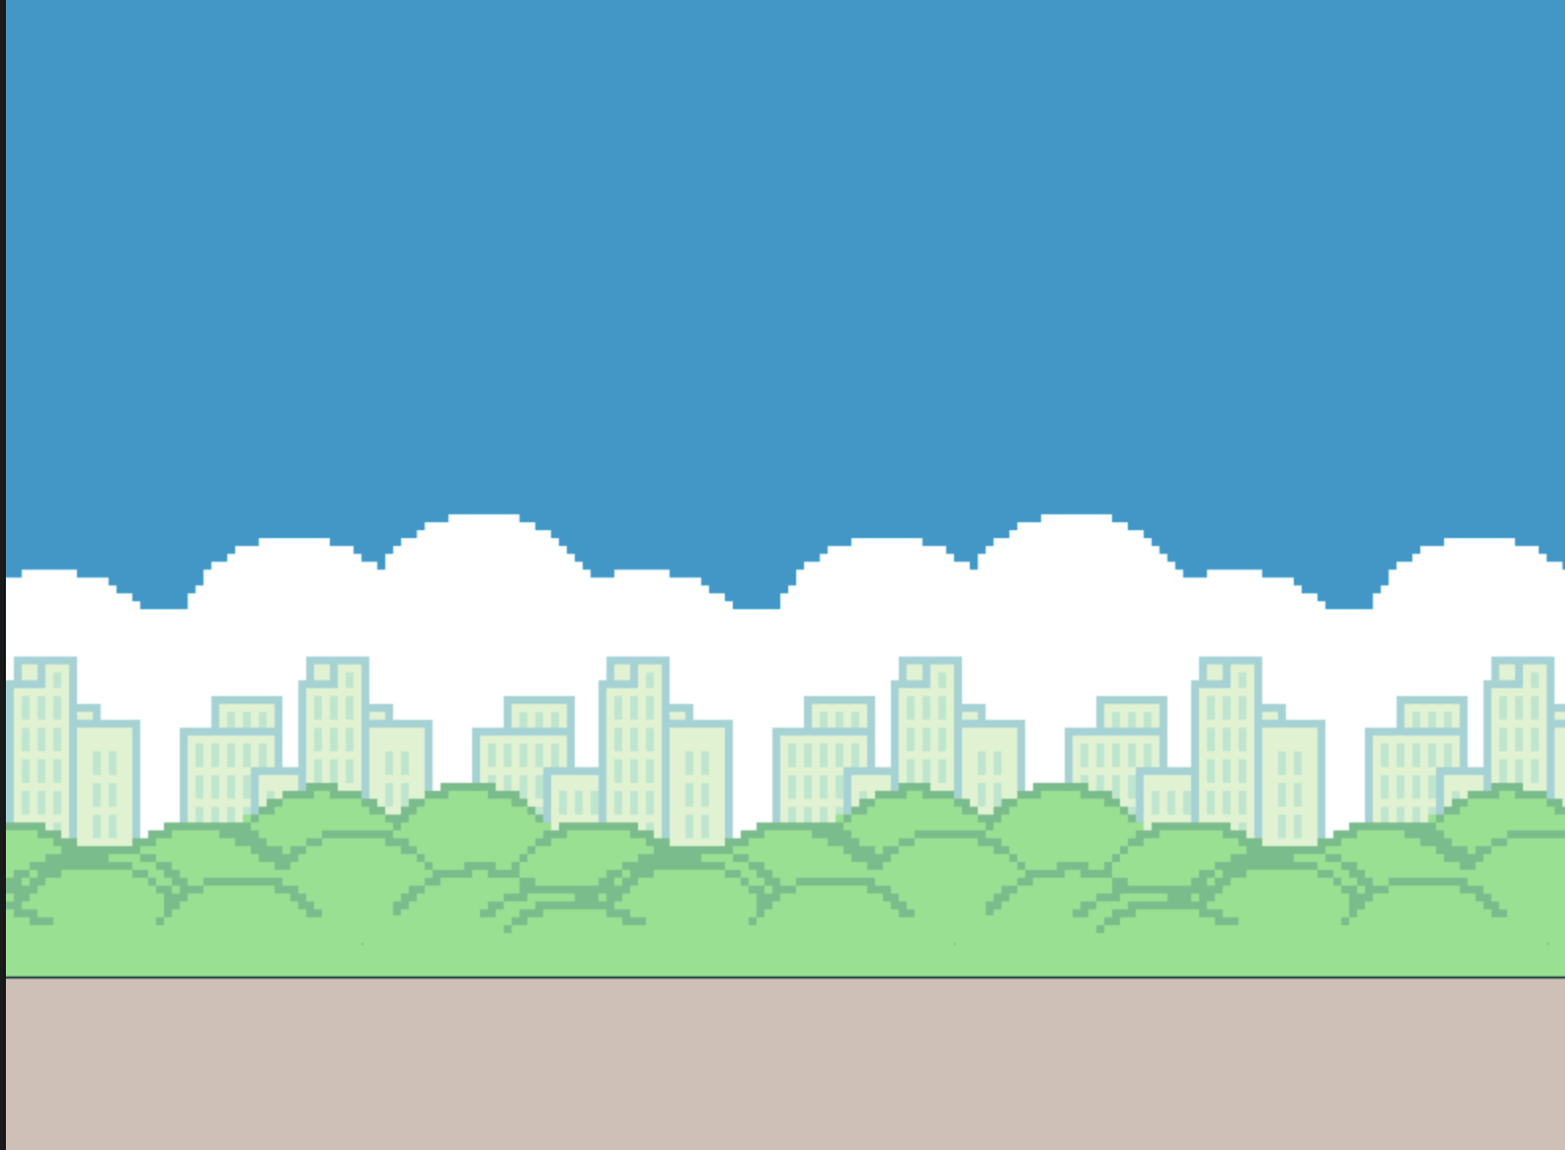
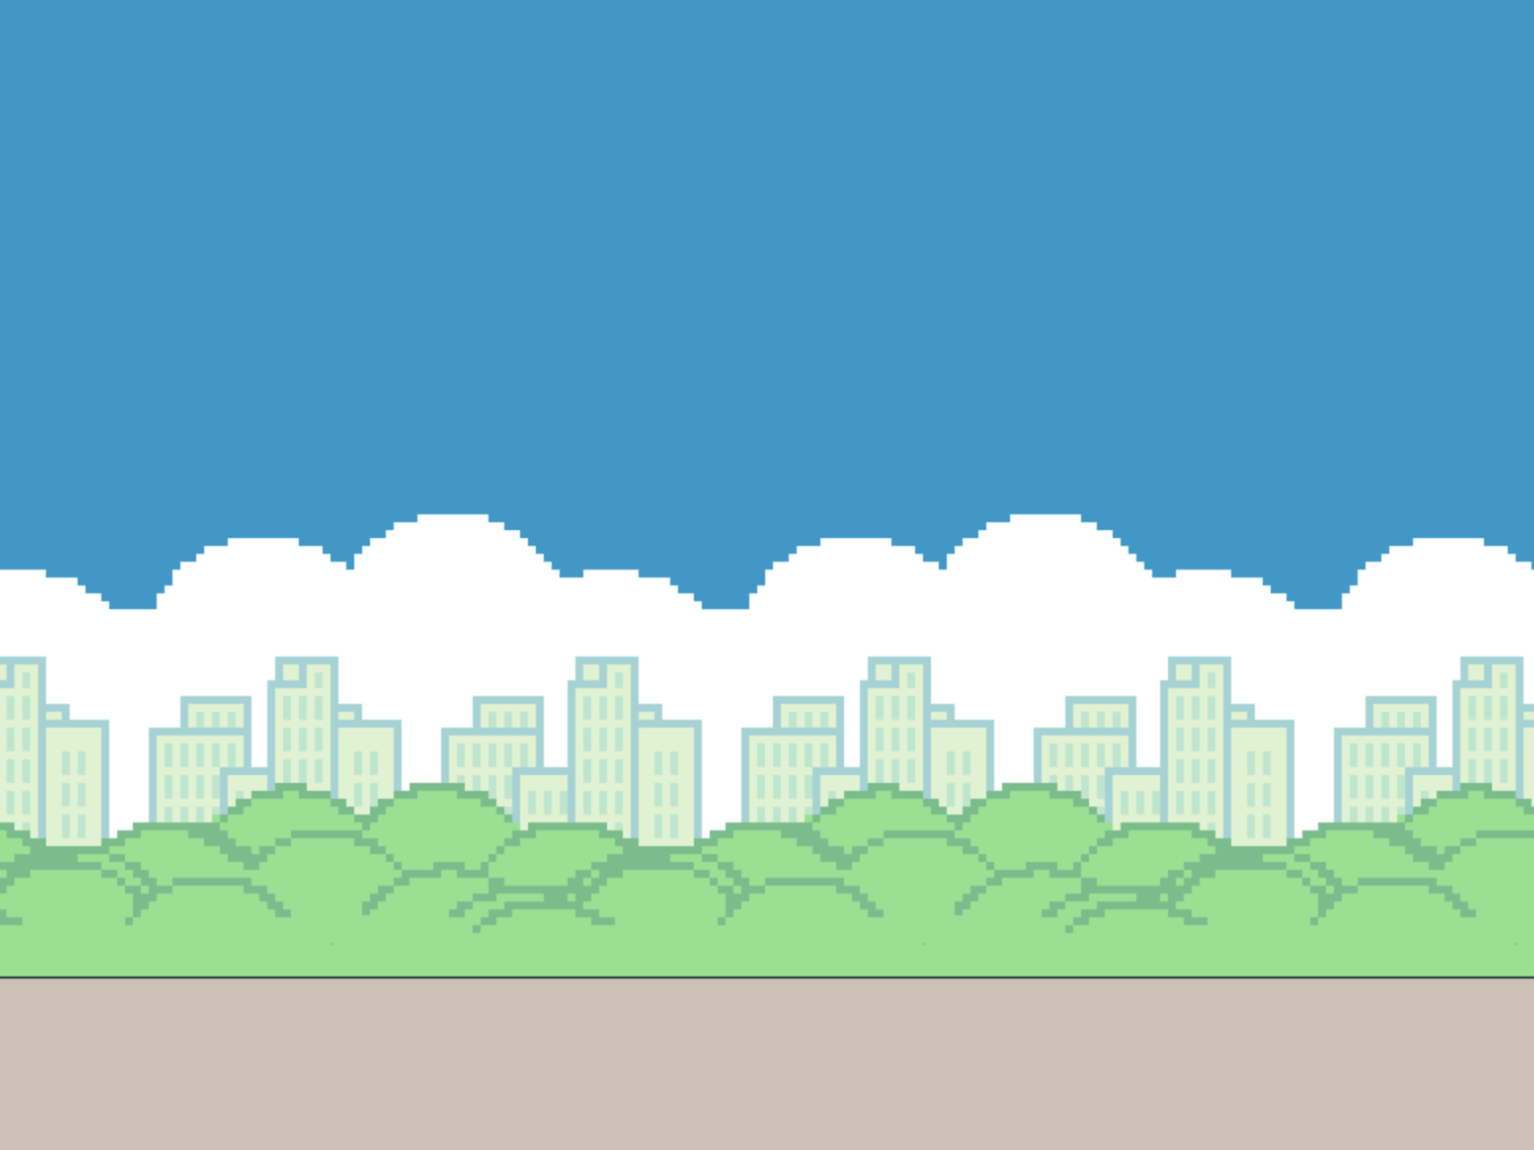
Game update
Change background error, improve stye

diff --git a/style.css b/style.css
@@ -1,3 +1,5 @@
+@import url("https://fonts.googleapis.com/css2?family=Rubik+Spray+Paint&family=Slackey&display=swap");
+
 body {
   margin: 0;
   display: flex;
@@ -30,23 +32,47 @@ body {
   font-size: 48px;
   color: #fff;
   text-shadow: 2px 2px 4px #000;
-  border: 2px solid #000;
+  font-family: "Slackey", cursive;
   padding: 10px;
 }
 
 #menu button,
 #gameOver button {
-  padding: 10px 20px;
+  padding: 15px 30px;
   font-size: 24px;
   cursor: pointer;
+  background-color: #ffeb3b;
+  border: none;
+  border-radius: 10px;
+  color: #000;
+  font-family: "Rubik Spray Paint", cursive;
+  text-transform: uppercase;
+  box-shadow: 0 4px #c9b037;
+  transition: all 0.3s ease;
+  white-space: nowrap; /* Garante que o texto fique em uma linha */
+}
+
+#menu button:hover,
+#gameOver button:hover {
+  background-color: #ffd700;
+}
+
+#menu button:active,
+#gameOver button:active {
+  box-shadow: 0 2px #c9b037;
+  transform: translateY(2px);
 }
 
 #score {
   position: absolute;
-  top: 10px;
+  top: 30%;
   left: 50%;
-  transform: translateX(-50%);
-  font-size: 32px;
+  transform: translate(-50%, -50%);
+  font-size: 140px;
   color: #fff;
   text-shadow: 2px 2px 4px #000;
+  font-family: "Rubik Spray Paint", cursive;
+  opacity: 0.25;
+  display: none; /* Esconde o score inicialmente */
+  z-index: 1; /* Coloca o score na frente do background */
 }

diff --git a/main.js b/main.js
@@ -1,10 +1,12 @@
 document.getElementById("startButton").addEventListener("click", () => {
   document.getElementById("menu").style.display = "none";
+  document.getElementById("score").style.display = "block"; // Mostra o score
   startGame();
 });
 
 document.getElementById("restartButton").addEventListener("click", () => {
   document.getElementById("gameOver").style.display = "none";
+  document.getElementById("score").style.display = "block"; // Mostra o score
   startGame();
 });
 
@@ -20,8 +22,26 @@ function startGame() {
 
 function gameOver() {
   document.getElementById("gameOver").style.display = "block";
+  document.getElementById("score").style.display = "none"; // Esconde o score
 }
 
 function updateScore(score) {
   document.getElementById("score").innerText = score;
 }
+
+function startBackgroundAnimation() {
+  const canvas = document.getElementById("gameCanvas");
+  const context = canvas.getContext("2d");
+  canvas.width = window.innerWidth;
+  canvas.height = window.innerHeight;
+
+  const background = new Background({ canvas, context });
+  function animate() {
+    context.clearRect(0, 0, canvas.width, canvas.height);
+    background.update();
+    requestAnimationFrame(animate);
+  }
+  animate();
+}
+
+startBackgroundAnimation();

diff --git a/index.html b/index.html
@@ -13,6 +13,11 @@
         <h1>Flappy Bird</h1>
         <button id="startButton">Start Game</button>
       </div>
+      <div id="gameOver" style="display: none">
+        <h1>GAME OVER</h1>
+        <button id="restartButton">Restart Game</button>
+      </div>
+      <div id="score">0</div>
     </div>
     <script src="js/background.js"></script>
     <script src="js/bird.js"></script>
